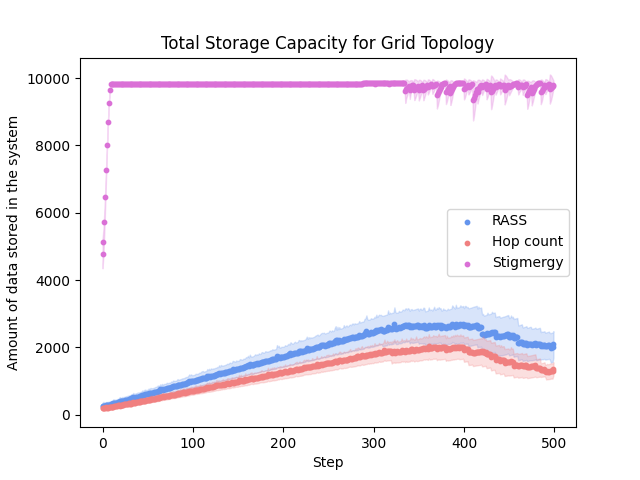
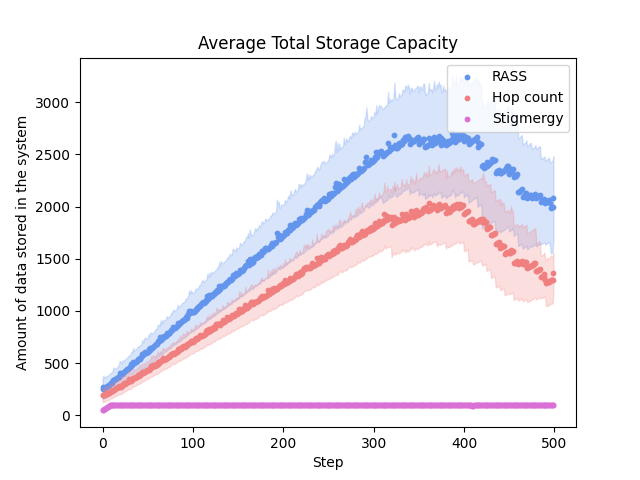
Edit result plotting

diff --git a/src/benchmarking/plot_results.py b/src/benchmarking/plot_results.py
@@ -51,7 +51,7 @@ def parse_mean_storage() -> np.ndarray:
                     break
                 step = int(lines[0][2])
 
-                if step == previous_step and run == previous_run:
+                if step == previous_step and run == previous_run and "stigmergy" not in folder_name:
                     step_storage_sum += int(np.mean([int(lines[i][3]) for i in range(len(lines))]))
                 elif step < MAX_NB_STEPS:
                     storage_capacity[folder_id, run, step - 1] = step_storage_sum
@@ -307,13 +307,13 @@ def plot_speed_metric(metric_data: np.ndarray, dependant_variable: str, metric: 
 
 
 def plot_metrics() -> None:
-    reliability = parse_mean_reliability()
+    # reliability = parse_mean_reliability()
     # lost = parse_data_lost()
     storage = parse_mean_storage()
 
     #memory = parse_memory(lost, storage)
     # speed = parse_speed()
-    plot_single_metric(reliability, "Retained data (%)", "reliability", "Reliability")
+    # plot_single_metric(reliability, "Retained data (%)", "reliability", "Reliability")
     # plot_single_metric(lost, "Amount of data lost", "lost_data", "Lost Data")
     plot_single_metric(storage, "Amount of data stored in the system", "storage", "Total Storage Capacity")
     # plot_single_metric(parse_avg_storage(), "Average amount of data stored on individual robots", "storage_individual.png")
